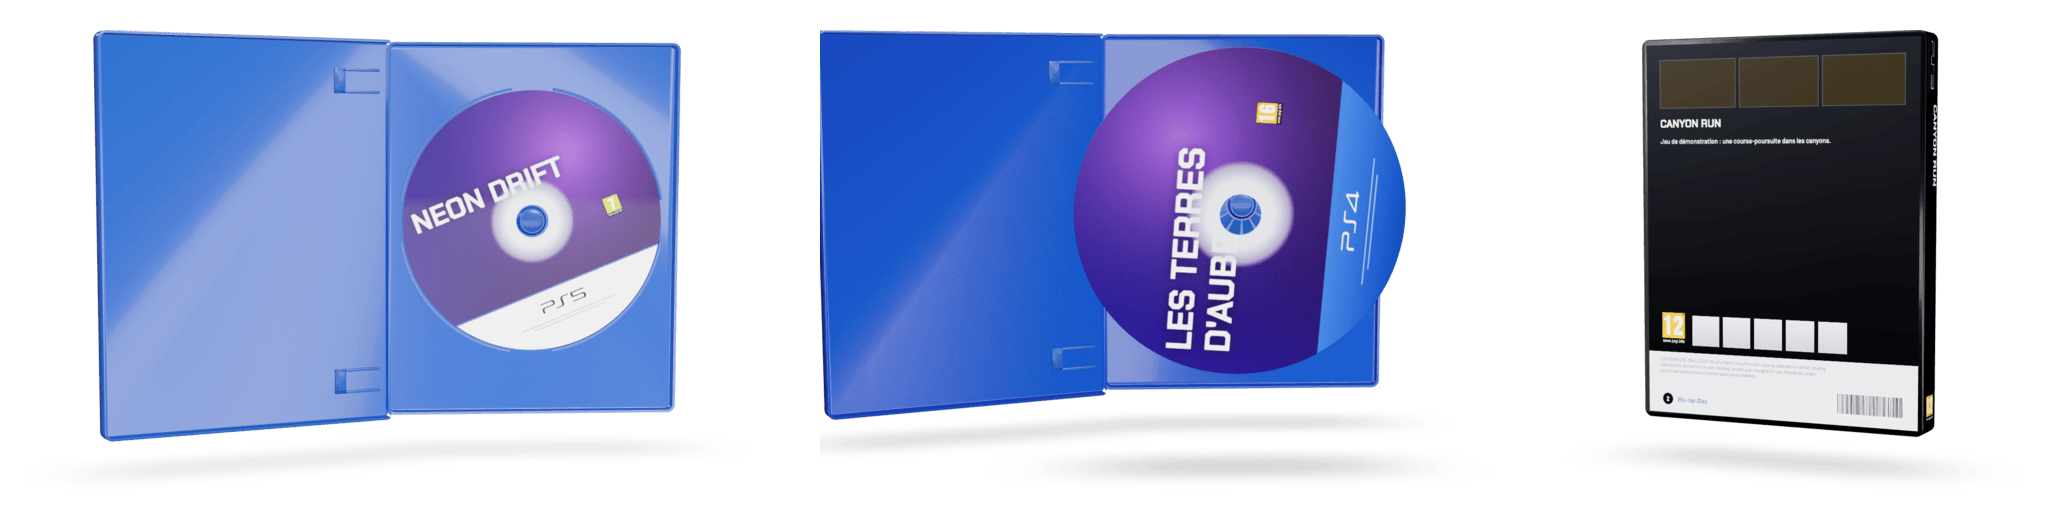
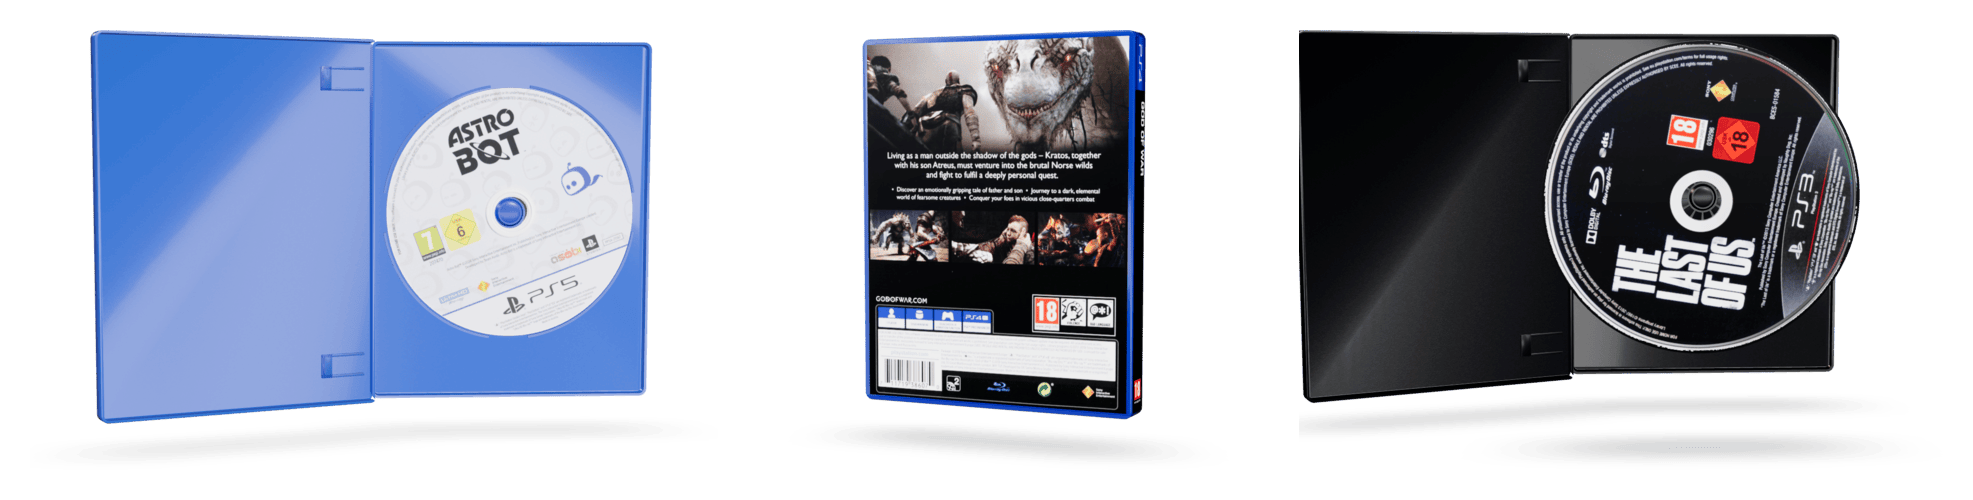
README : boîtiers et accueil avec de vrais jeux

diff --git a/README.md b/README.md
@@ -15,7 +15,7 @@ On photographie un jeu, la jaquette est retrouvée, et le boîtier s'ouvre sur s
 
 **[Ouvrir l'appli →](https://axsomette.github.io/ma-ludotheque-ps/)**
 
-<img src="docs/boitiers.png" alt="Trois boîtiers 3D : PS5 bleu translucide à bandeau blanc, PS4 bleu à bandeau bleu, PS3 noir laqué" width="860">
+<img src="docs/boitiers.png" alt="Trois boîtiers 3D rendus par l'appli : Astro Bot (PS5, plastique bleu translucide, bandeau blanc), God of War (PS4, bandeau bleu), The Last of Us (PS3, noir laqué)" width="860">
 
 </div>
 
@@ -31,7 +31,7 @@ On photographie un jeu, la jaquette est retrouvée, et le boîtier s'ouvre sur s
 | **Dans la poche** | PWA installable sur iPhone et Android, interface disponible hors ligne, un compte e-mail + mot de passe et ta collection te suit partout. |
 
 <p align="center">
-  <img src="docs/manipuler.png" alt="Le boîtier ouvert, le disque sorti, le dos du boîtier" width="860">
+  <img src="docs/manipuler.png" alt="Astro Bot ouvert sur son disque, le dos européen de God of War, le disque de The Last of Us sorti du boîtier" width="860">
 </p>
 
 Toucher un boîtier l'ouvre en 3D, aux proportions d'un vrai boîtier (135 × 171 × 15 mm) :
@@ -53,7 +53,7 @@ Au clavier : `F` face, `D` dos, `O` ouvrir, `X` disque, `Espace` ouvrir / fermer
   </tr>
 </table>
 
-> Sans configuration, l'appli démarre en **mode démo** : quatre jeux d'exemple, la collection reste dans le navigateur.
+> Sans configuration, l'appli démarre en **mode démo** : des jeux d'exemple aux jaquettes générées, la collection reste dans le navigateur.
 
 ## Comment ça marche
 
@@ -184,7 +184,7 @@ Une faille ? Merci de la signaler en privé via les [GitHub Security Advisories]
 
 ## Crédits et limites
 
-- Jaquettes et données : [IGDB](https://www.igdb.com/). Scans du dos et du disque : [LaunchBox Games DB](https://gamesdb.launchbox-app.com/). Ces images restent la propriété de leurs éditeurs : **usage personnel uniquement**.
+- Jaquettes et données : [IGDB](https://www.igdb.com/). Scans du dos et du disque : [LaunchBox Games DB](https://gamesdb.launchbox-app.com/). Ces images restent la propriété de leurs éditeurs : **usage personnel uniquement**. Les jeux visibles sur les captures de ce README (Astro Bot, Gran Turismo, God of War, Ghost of Tsushima, The Last of Us) illustrent le fonctionnement de l'appli ; leurs visuels appartiennent à leurs éditeurs.
 - Logotypes PlayStation et pictogrammes PEGI : versions du domaine public sur [Wikimedia Commons](https://commons.wikimedia.org/). « PlayStation », « PS5 », « PS4 » et « PS3 » sont des marques de Sony Interactive Entertainment ; ce projet n'est ni affilié ni approuvé par Sony.
 - La lecture du titre dépend de la photo (jaquette de face, bien éclairée) ; le titre lu reste modifiable avant la recherche.
 
